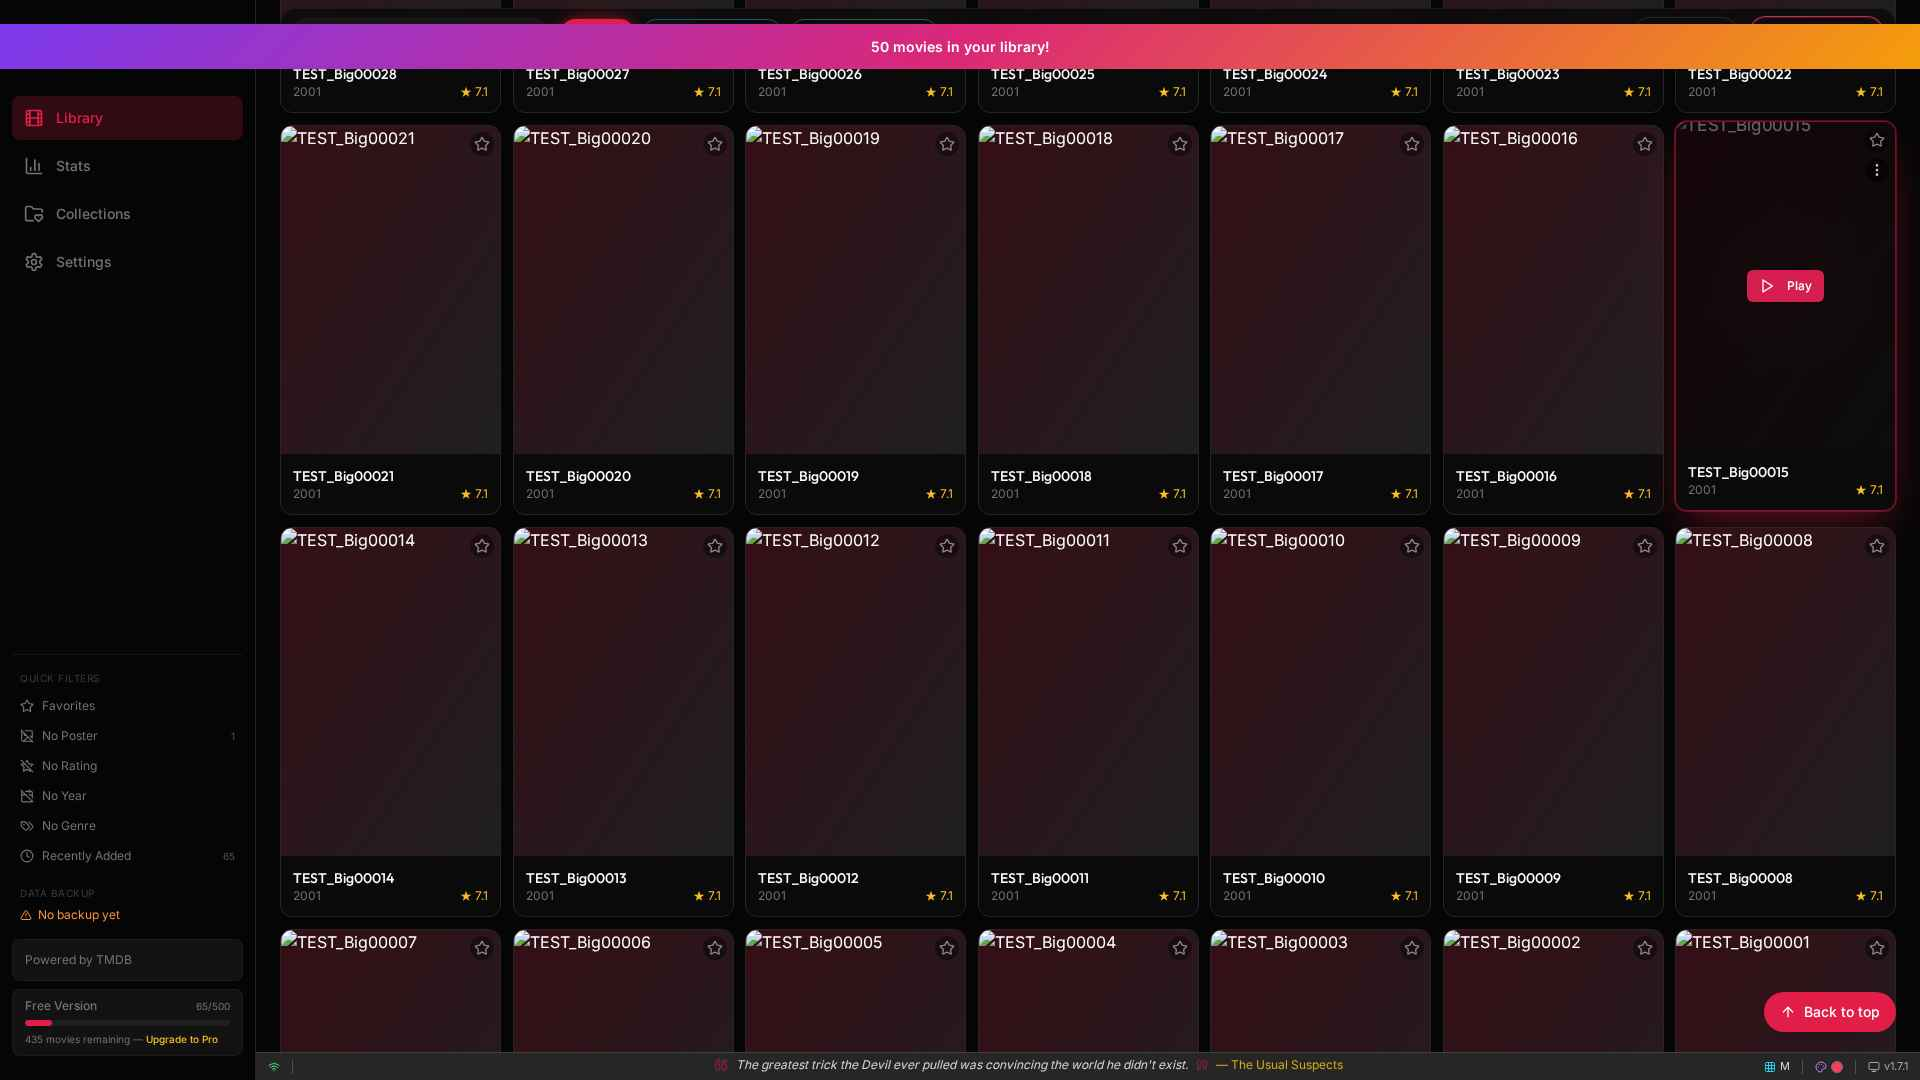
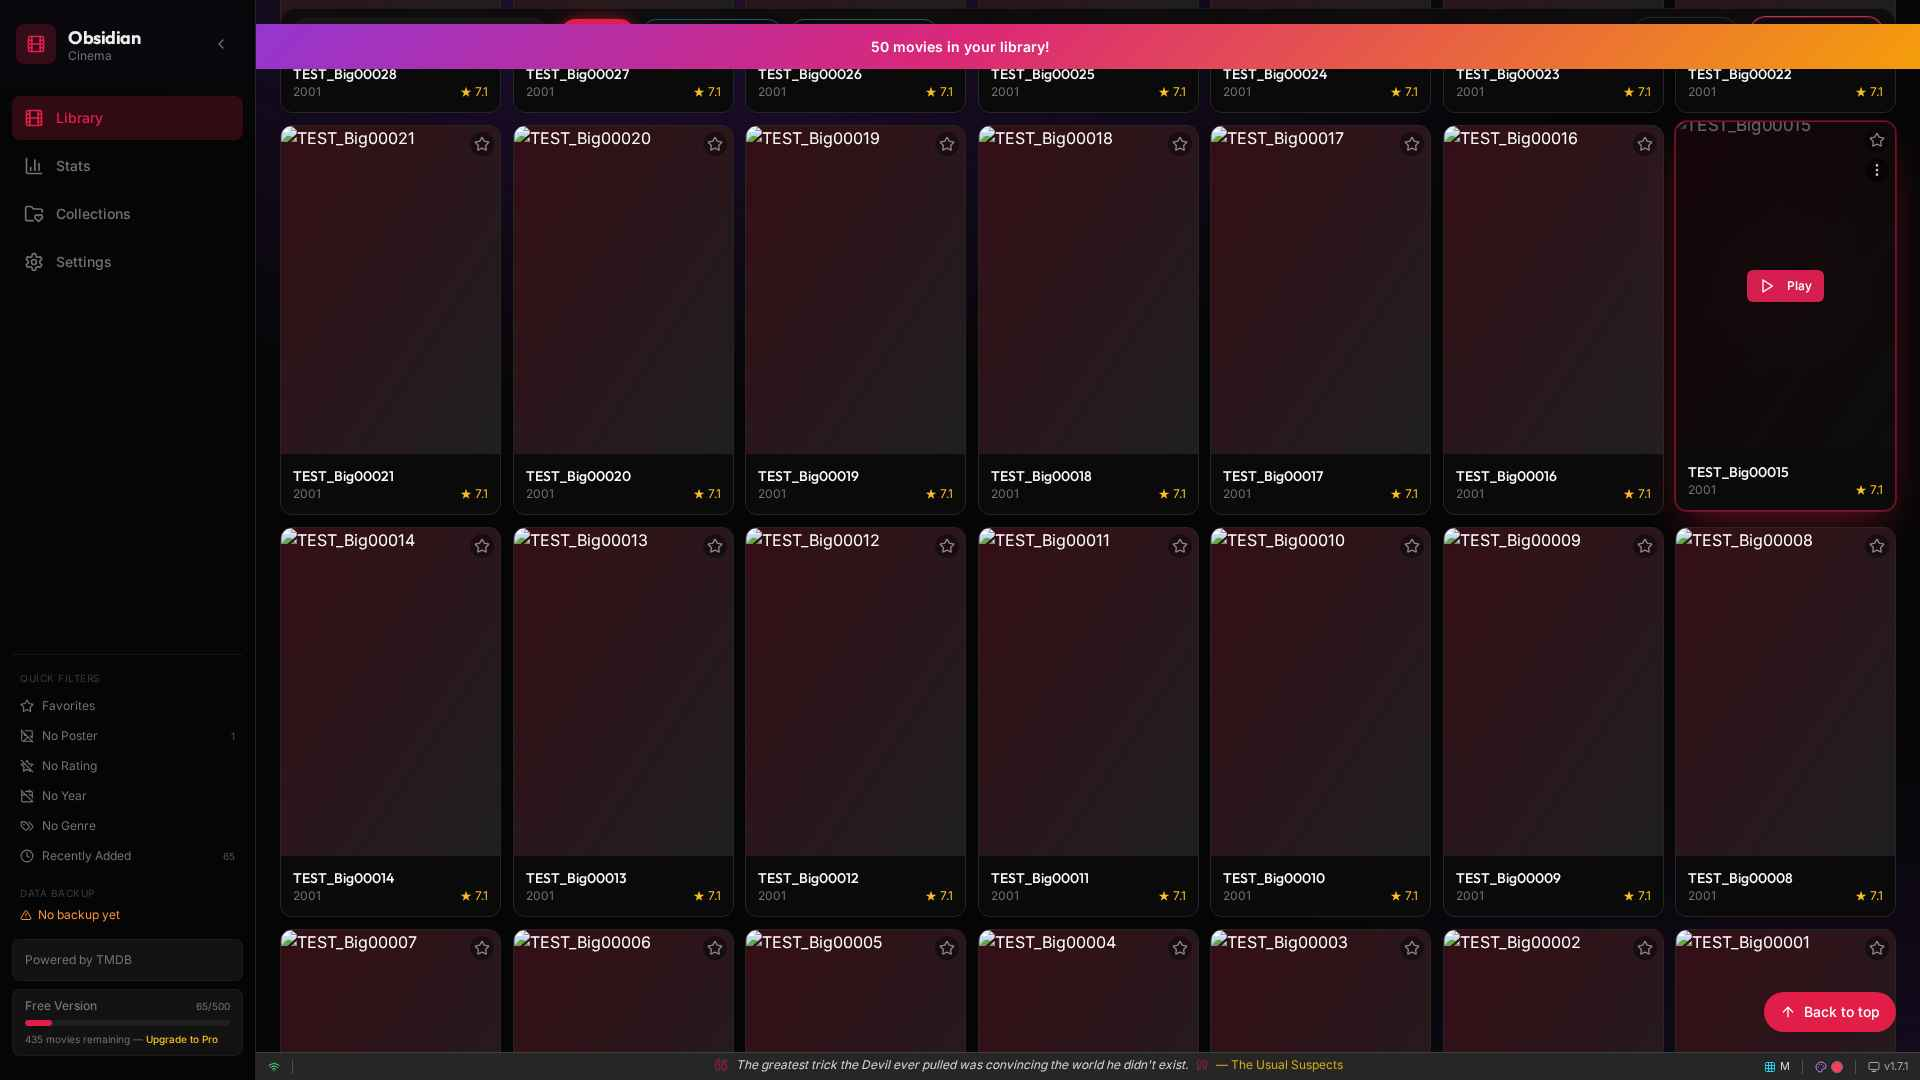
## Poster backdrop glow added
Hovering over a poster now softly tints the library background with that poster's colours. I have tested this feature in the preview, and the earlier toolbar and card checks passed successfully (46 of 46). Since this is a desktop app change, it will be included in your next desktop release.

- **Visual effect:** a gentle glow appears from the top-left, with a fainter glow at the bottom-right. Transitioning between posters blends the colours smoothly.
- **Fade out:** the glow fades approximately a third of a second after the mouse leaves the posters.
- **Enhanced visibility:** dark or grey posters have their colours slightly boosted to maintain a visible tint.
- **Always active:** as chosen, the glow remains on even with Lite effects or big libraries, since it only activates on hover.

**Please verify in the installed desktop app:** I confirmed the real poster colours with a test image. Note that the web preview cannot extract colours from real online posters and uses stand-in colours instead. The desktop app should display real poster colours. After the next release, kindly hover over a few posters to check that the glow matches them.

## Next Action Items
- **Glow In Details:** Apply the poster colours as a tint in the movie details window when opening a title.
- **Watched Hours Stat:** Display the actual hours watched for each category next to the total.
- **Resume Next Episode:** Remember the last episode played and show "Continue with S02E05" on the show's card.
[…]

Changed region(s): [[0.1562, 0.0611, 0.5938, 0.1528], [0.0, 0.0, 0.1562, 0.0917]]

diff --git a/frontend/src/pages/LocalLibraryPage.jsx b/frontend/src/pages/LocalLibraryPage.jsx
@@ -88,6 +88,8 @@ import PdfExportDialog from "@/components/PdfExportDialog";
 import { LibraryHeader } from "@/components/LibraryHeader";
 import { LibraryTools } from "@/components/LibraryTools";
 import { useEffectsLevel } from "@/lib/effects";
+import { getPosterColor } from "@/lib/posterColor";
+import { PosterBackdrop } from "@/components/PosterBackdrop";
 import { fetchFullMetadata, fetchDetails, parseFilename, runPool, thumbUrl, normalizeLibraryGenres } from "@/lib/tmdbMatcher";
 import { filmography, pairFilmography, filmDirectors } from "@/lib/peopleStats";
 import { FilmographyDialog } from "@/components/FilmographyDialog";
@@ -223,7 +225,7 @@ function CardMoveMenu({ movie, category, onMove }) {
   );
 }
 
-const MovieCard = memo(function MovieCard({ movie, gridSize, onOpen, onPlayMovie, isFavorite, onToggleFav, category, onMove, selectMode, selected, onSelect, fx, index }) {
+const MovieCard = memo(function MovieCard({ movie, gridSize, onOpen, onPlayMovie, isFavorite, onToggleFav, category, onMove, selectMode, selected, onSelect, fx, index, onHover }) {
   var onClick = function() { if (selectMode) onSelect(movie.id); else onOpen(movie); };
   var onPlay = function(e) { e.stopPropagation(); onPlayMovie(movie); };
   var onToggleFavorite = function(e) { onToggleFav(movie.id, e); };
@@ -265,7 +267,8 @@ const MovieCard = memo(function MovieCard({ movie, gridSize, onOpen, onPlayMovie
       className={'group relative oc-card ' + (fx === 'full' ? 'oc-card-full' : 'oc-card-lite')}
       style={fx === 'full' ? { animationDelay: ((index || 0) % 24) * 28 + 'ms' } : undefined}
       onMouseMove={fx === 'full' ? tilt : undefined}
-      onMouseLeave={fx === 'full' ? untilt : undefined}
+      onMouseEnter={function() { onHover(movie); }}
+      onMouseLeave={function(e) { onHover(null); if (fx === 'full') untilt(e); }}
     >
       {showConfetti && (
         <div className="fav-confetti" style={{ position: 'absolute', top: '0.75rem', right: '1rem', zIndex: 50 }}>
@@ -1654,6 +1657,15 @@ export default function LocalLibraryPage() {
   const openMovieDetailCb = useCallback((m) => { setSelectedMovie(m); trackActivity(m.id, 'view'); }, []);
   // eslint-disable-next-line react-hooks/exhaustive-deps
   const playMovieCb = useCallback((m) => playMovie(m), []);
+  const [glow, setGlow] = useState(null);
+  const glowRef = useRef({ key: null, timer: null });
+  const hoverPoster = useCallback((m) => {
+    const g = glowRef.current;
+    clearTimeout(g.timer);
+    if (!m) { g.key = null; g.timer = setTimeout(() => setGlow(null), 350); return; }
+    g.key = m.id;
+    getPosterColor(m.poster_path, m.title).then(rgb => { if (glowRef.current.key === m.id) setGlow(rgb); });
+  }, []);
   const multipartGroups = useMemo(() => findPartGroups(movies, multipartDismissed), [movies, multipartDismissed, showRootsKey]);
   useEffect(() => {
     const catDir = catCheckDirRef.current;
@@ -1936,7 +1948,8 @@ export default function LocalLibraryPage() {
   }
 
   return (
-    <div className="p-6 space-y-6 relative min-h-full" onDragOver={onLibraryDragOver} onDragLeave={onLibraryDragLeave} onDrop={onLibraryDrop} data-testid="library-drop-zone">
+    <div className="p-6 space-y-6 relative isolate min-h-full" onDragOver={onLibraryDragOver} onDragLeave={onLibraryDragLeave} onDrop={onLibraryDrop} data-testid="library-drop-zone">
+      <PosterBackdrop rgb={glow} />
       {dragOver && (
         <div className="fixed inset-0 z-50 pointer-events-none flex items-center justify-center bg-background/70 backdrop-blur-sm" data-testid="library-drop-overlay">
           <div className="px-8 py-6 rounded-2xl border-2 border-dashed border-primary bg-card/90 text-center">
@@ -2403,7 +2416,7 @@ export default function LocalLibraryPage() {
                 </div>
                 <div className={`grid ${GRID_SIZES[gridSize].cols} ${GRID_SIZES[gridSize].gap}`}>
                   {dirMovies.map((movie, i) => (
-                    <MovieCard index={i} key={movie.id} movie={movie} gridSize={gridSize} onOpen={openMovieDetailCb} onPlayMovie={playMovieCb} isFavorite={favoriteSet.has(movie.id)} onToggleFav={toggleFavorite} category={categoryOf(movie)} onMove={moveToCategory} selectMode={selectMode} selected={selectMode && selectedIds.has(movie.id)} onSelect={toggleSelect} fx={fx} />
+                    <MovieCard index={i} key={movie.id} movie={movie} gridSize={gridSize} onOpen={openMovieDetailCb} onPlayMovie={playMovieCb} isFavorite={favoriteSet.has(movie.id)} onToggleFav={toggleFavorite} category={categoryOf(movie)} onMove={moveToCategory} selectMode={selectMode} selected={selectMode && selectedIds.has(movie.id)} onSelect={toggleSelect} fx={fx} onHover={hoverPoster} />
                   ))}
                 </div>
               </div>
@@ -2412,7 +2425,7 @@ export default function LocalLibraryPage() {
         ) : (
         <div className={`grid ${GRID_SIZES[gridSize].cols} ${GRID_SIZES[gridSize].gap}`}>
           {displayedMovies.map((movie, i) => (
-            <MovieCard index={i} key={movie.id} movie={movie} gridSize={gridSize} onOpen={openMovieDetailCb} onPlayMovie={playMovieCb} isFavorite={favoriteSet.has(movie.id)} onToggleFav={toggleFavorite} category={categoryOf(movie)} onMove={moveToCategory} selectMode={selectMode} selected={selectMode && selectedIds.has(movie.id)} onSelect={toggleSelect} fx={fx} />
+            <MovieCard index={i} key={movie.id} movie={movie} gridSize={gridSize} onOpen={openMovieDetailCb} onPlayMovie={playMovieCb} isFavorite={favoriteSet.has(movie.id)} onToggleFav={toggleFavorite} category={categoryOf(movie)} onMove={moveToCategory} selectMode={selectMode} selected={selectMode && selectedIds.has(movie.id)} onSelect={toggleSelect} fx={fx} onHover={hoverPoster} />
           ))}
         </div>
         )

diff --git a/frontend/src/lib/posterColor.js b/frontend/src/lib/posterColor.js
@@ -1,0 +1,58 @@
+import { thumbUrl } from "@/lib/tmdbMatcher";
+
+const cache = new Map();
+
+function loadImg(src, cors) {
+  return new Promise((resolve, reject) => {
+    const img = new Image();
+    if (cors) img.crossOrigin = 'anonymous';
+    img.onload = () => resolve(img);
+    img.onerror = reject;
+    img.src = src;
+  });
+}
+
+// Average colour, weighted towards vivid pixels so dark/grey posters still tint
+function sample(img) {
+  const c = document.createElement('canvas');
+  c.width = 24; c.height = 36;
+  const ctx = c.getContext('2d', { willReadFrequently: true });
+  ctx.drawImage(img, 0, 0, 24, 36);
+  const d = ctx.getImageData(0, 0, 24, 36).data;
+  let r = 0, g = 0, b = 0, w = 0;
+  for (let i = 0; i < d.length; i += 4) {
+    const mx = Math.max(d[i], d[i + 1], d[i + 2]), mn = Math.min(d[i], d[i + 1], d[i + 2]);
+    const wt = 0.05 + ((mx - mn) / 255) * (mx / 255);
+    r += d[i] * wt; g += d[i + 1] * wt; b += d[i + 2] * wt; w += wt;
+  }
+  return lift([r / w, g / w, b / w]);
+}
+
+// Keep the tint visible on a near-black background
+function lift([r, g, b]) {
+  const mx = Math.max(r, g, b, 1);
+  const k = mx < 150 ? 150 / mx : 1;
+  return [r, g, b].map(v => Math.round(Math.min(255, v * k)));
+}
+
+function fromTitle(title) {
+  let h = 0;
+  for (let i = 0; i < (title || '').length; i++) h = (h * 31 + title.charCodeAt(i)) % 360;
+  const f = (n) => { const k = (n + h / 30) % 12; return Math.round(255 * (0.55 - 0.35 * Math.max(-1, Math.min(k - 3, 9 - k, 1)))); };
+  return [f(0), f(8), f(4)];
+}
+
+export async function getPosterColor(posterUrl, title) {
+  const key = posterUrl || title;
+  if (cache.has(key)) return cache.get(key);
+  let rgb = null;
+  if (posterUrl) {
+    const src = thumbUrl(posterUrl, 'w92');
+    for (const cors of [false, true]) {
+      try { rgb = sample(await loadImg(src, cors)); break; } catch (e) { rgb = null; }
+    }
+  }
+  rgb = rgb || fromTitle(title);
+  cache.set(key, rgb);
+  return rgb;
+}

diff --git a/frontend/src/index.css b/frontend/src/index.css
@@ -392,3 +392,15 @@ code {
   .oc-card-full, .oc-chip-in, .oc-title-shine, .oc-title-icon, .oc-attn { animation: none !important; }
   .oc-card-full .oc-card-surface { transform: none !important; }
 }
+
+/* ── Poster backdrop glow ── */
+@property --oc-r { syntax: '<number>'; inherits: false; initial-value: 225; }
+@property --oc-g { syntax: '<number>'; inherits: false; initial-value: 29; }
+@property --oc-b { syntax: '<number>'; inherits: false; initial-value: 72; }
+.oc-backdrop {
+  background:
+    radial-gradient(ellipse 70% 55% at 35% 0%, rgb(var(--oc-r) var(--oc-g) var(--oc-b) / 0.20), transparent 70%),
+    radial-gradient(ellipse 55% 45% at 100% 100%, rgb(var(--oc-r) var(--oc-g) var(--oc-b) / 0.12), transparent 70%);
+  transition: opacity 0.7s ease, --oc-r 0.9s ease, --oc-g 0.9s ease, --oc-b 0.9s ease;
+}
+@media (prefers-reduced-motion: reduce) { .oc-backdrop { transition: opacity 0.3s ease; } }

diff --git a/frontend/src/components/PosterBackdrop.jsx b/frontend/src/components/PosterBackdrop.jsx
@@ -1,0 +1,10 @@
+// Soft colour wash behind the library, tinted by the hovered poster
+export const PosterBackdrop = ({ rgb }) => (
+  <div
+    aria-hidden="true"
+    className="oc-backdrop fixed inset-0 -z-10 pointer-events-none"
+    style={rgb ? { '--oc-r': rgb[0], '--oc-g': rgb[1], '--oc-b': rgb[2], opacity: 1 } : { opacity: 0 }}
+    data-testid="poster-backdrop"
+    data-rgb={rgb ? rgb.join(',') : ''}
+  />
+);

diff --git a/memory/PRD.md b/memory/PRD.md
@@ -141,3 +141,6 @@ Build "Obsidian Cinema"—an installable Windows desktop app (Electron) that sca
 - LibraryHeader.jsx (title shine, animated count chips, Add Folder / Update Library / Tools), LibraryTools.jsx (grouped dropdown: attention items w/ badge, metadata tools, select/add files/PDF), sticky glass toolbar (search, type filters with sliding highlight, genre, sort, activity chips). Empty categories hidden.
 - Card effects: staggered entrance, 3D tilt + glow + sheen (full), simple lift (lite). lib/effects.js: Auto (lite above 3000 titles, latched per visit) / Full / Lite; Settings > Library Visual Effects (EffectsSetting.jsx). Respects prefers-reduced-motion.
 - Tested iteration_50 (199/199) + /app/tests/test_iter51_library_header.py re-run after polish (all pass).
+
+## 2026-06 — Poster backdrop glow
+- lib/posterColor.js (samples w92 poster on a tiny canvas, vivid-weighted average, lifted for dark UI, cached; title-hue fallback if image can't be read) + components/PosterBackdrop.jsx (fixed soft radial wash, colour animated via @property). Hover on any MovieCard tints; fades out 350ms after leaving. Always on (user choice), independent of effects level.
